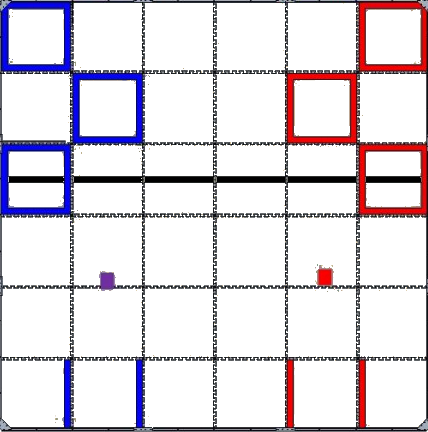
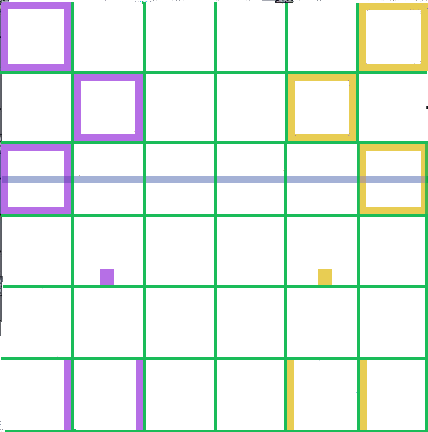
New field background image Added pause button Smoother inputs Changed telemetry location Adjusted the robot speed to better match real life Added time based movements

Changed region(s): [[0.0, 0.0, 1.0, 1.0]]

diff --git a/robot/src/main/java/com/example/robot/Position.java b/robot/src/main/java/com/example/robot/Position.java
@@ -4,6 +4,8 @@
  * and open the template in the editor.
  */
 package com.example.robot;
+import java.awt.Robot;
+
 import static com.example.robot.utilities.*;
 
 public class Position extends Thread{
@@ -30,38 +32,41 @@ public class Position extends Thread{
     @Override
     public void run(){             
         while(keepRun){
-            
-            //Cycles through all motors, seeing what mode they are in and thus whether or not to increment encoder position
-            for(int i=0; i<rob.driveTrain.length; i++){
-                if(rob.driveTrain[i].getMode().equals(DcMotor.RunMode.RUN_USING_ENCODER)||rob.driveTrain[i].getMode().equals(DcMotor.RunMode.RUN_TO_POSITION)){
-                    rob.driveTrain[i].position+=rob.driveTrain[i].getPower()*30;
+            if(!RobotSimulator.pause) {
+
+                //Cycles through all motors, seeing what mode they are in and thus whether or not to increment encoder position
+                for (int i = 0; i < rob.driveTrain.length; i++) {
+                    if (rob.driveTrain[i].getMode().equals(DcMotor.RunMode.RUN_USING_ENCODER) || rob.driveTrain[i].getMode().equals(DcMotor.RunMode.RUN_TO_POSITION)) {
+                        rob.driveTrain[i].position += rob.driveTrain[i].getPower() * 4.456;
+                    } else if (rob.driveTrain[i].getMode().equals(DcMotor.RunMode.STOP_AND_RESET_ENCODER)) {
+                        rob.driveTrain[i].setPower(0);
+                        rob.driveTrain[i].position = 0;
+                    }
+                    if (rob.driveTrain[i].getMode().equals(DcMotor.RunMode.RUN_TO_POSITION) && rob.driveTrain[i].position > rob.driveTrain[i].wantPos) {
+                        rob.driveTrain[i].setPower(0);
+                    }
                 }
-                else if(rob.driveTrain[i].getMode().equals(DcMotor.RunMode.STOP_AND_RESET_ENCODER)){
-                    rob.driveTrain[i].setPower(0);
-                    rob.driveTrain[i].position=0;
-                }
-                if(rob.driveTrain[i].getMode().equals(DcMotor.RunMode.RUN_TO_POSITION)&&rob.driveTrain[i].position>rob.driveTrain[i].wantPos){
-                    rob.driveTrain[i].setPower(0);
-                }
+
+                //Here we want to find the direction the robot is traveling relative to itself, eg if it is driving forwards or strafing to the right
+                //robot system is analogous to right triangle, base is made up of leftfront and rightback which runs along x axis while height is leftback and rightfront that runs along y axis
+                //Using this model, the angle of the vector that is formed by adding the leftfront and rightback vector with the leftback and rightfront vector (perpendicular) can be calculated
+                //The angle of the vector is 45 degrees to the right of the direction the robot will end up travelling so we add 45 degrees to get the actual direction the robot will travel in
+                //Speed will be magnitude of above vector
+                double angleRobot = angleWrap(Math.PI / 4 + Math.atan2(rob.leftBack.getPower() + rob.rightFront.getPower(), rob.leftFront.getPower() + rob.rightBack.getPower())); //if y is backwards, negate
+                double powRobot = Math.hypot(rob.leftBack.getPower() + rob.rightFront.getPower(), rob.leftFront.getPower() + rob.rightBack.getPower())*.849;
+
+                //we calculated the angle the robot was moving relative to where its facing, now need to calculate the angle the robot is moving relative to field and update its position accordingly
+                //The angle it is traveling in relative to the field is the direction it is traveling relative to the robot added to the angle the robot is facing relative to the field
+                double angleWorld = angleWrap(angleRobot + heading);
+                setX(getX() + Math.cos(angleWorld) * powRobot );
+                setY(getY() - Math.sin(angleWorld) * powRobot );
+                //x+=Math.cos(angleWorld)*powRobot;
+                //y-=Math.sin(angleWorld)*powRobot;
+                setHeading(angleWrap(getHeading() + (rob.rightBack.getPower() + rob.rightFront.getPower() - rob.leftBack.getPower() - rob.leftFront.getPower()) *.06/4));
+
+
+                //heading=angleWrap(heading+(rob.rightBack.getPower() + rob.rightFront.getPower()-rob.leftBack.getPower() -rob.leftFront.getPower())/50);
             }
-
-            //Here we want to find the direction the robot is traveling relative to itself, eg if it is driving forwards or strafing to the right
-            //robot system is analogous to right triangle, base is made up of leftfront and rightback which runs along x axis while height is leftback and rightfront that runs along y axis
-            //Using this model, the angle of the vector that is formed by adding the leftfront and rightback vector with the leftback and rightfront vector (perpendicular) can be calculated
-            //The angle of the vector is 45 degrees to the right of the direction the robot will end up travelling so we add 45 degrees to get the actual direction the robot will travel in
-            //Speed will be magnitude of above vector
-            double angleRobot=angleWrap(Math.PI/4+Math.atan2(rob.leftBack.getPower()+rob.rightFront.getPower(), rob.leftFront.getPower()+rob.rightBack.getPower())); //if y is backwards, negate
-            double powRobot=Math.hypot(rob.leftBack.getPower()+rob.rightFront.getPower(),  rob.leftFront.getPower()+rob.rightBack.getPower());
-
-            //we calculated the angle the robot was moving relative to where its facing, now need to calculate the angle the robot is moving relative to field and update its position accordingly
-            //The angle it is traveling in relative to the field is the direction it is traveling relative to the robot added to the angle the robot is facing relative to the field
-            double angleWorld=angleWrap(angleRobot+heading);
-            x+=Math.cos(angleWorld)*powRobot;
-            y-=Math.sin(angleWorld)*powRobot;
-
-            
-            heading=angleWrap(heading+(rob.rightBack.getPower() + rob.rightFront.getPower()-rob.leftBack.getPower() -rob.leftFront.getPower())/50);
-
             try{
                 Thread.sleep(10);
             }
@@ -71,15 +76,21 @@ public class Position extends Thread{
     }
 
     public void setX(double x) {
-        this.x = x;
+        if(!RobotSimulator.pause){
+            this.x = x;
+        }
     }
 
     public void setY(double y) {
-        this.y = y;
+        if(!RobotSimulator.pause){
+            this.y = y;
+        }
     }
 
     public void setHeading(double heading) {
-        this.heading = heading;
+        if(!RobotSimulator.pause){
+            this.heading = heading;
+        }
     }
 
     public double getX() {

diff --git a/robot/src/main/java/com/example/robot/RobotSimulator.java b/robot/src/main/java/com/example/robot/RobotSimulator.java
@@ -36,6 +36,8 @@ public class RobotSimulator extends Canvas {
     static Canvas pic; //canvas to draw on
     static Image bot; //global image of robot
     static Image field;
+    static Image pauseSim;
+    static boolean pause= false;
 
     //48 pixesl per inch, field is 12x12ft
     static final int length=576; //size of frame 576
@@ -43,14 +45,28 @@ public class RobotSimulator extends Canvas {
     
     static List<String> tele=new ArrayList<>(); //list that includes all the string that telemetry wants to display
     static JButton reset;
+    static JButton stop;
+
     public static void main(String[] args) {
         pic= new RobotSimulator(); //making the canvas
         frame= new JFrame("pog"); //making the frame
+
         reset = new JButton("R"); //new button made to reset robot position
+        stop= new JButton("P");
+
         paint t= new paint(); //making a new paint object, which will be made into a thread
         Thread draw= new Thread(t); //making t into a thread
 
-        reset.setBounds(length-60, 20, 50, 30); //size and position of button
+
+        stop.setBounds(70, 10, 50, 30);
+        stop.addActionListener( new ActionListener (){
+            public void actionPerformed(ActionEvent e){
+                pause=!pause;
+            }
+        });
+        frame.add(stop);
+
+        reset.setBounds(10, 10, 50, 30); //size and position of button
         reset.addActionListener(new ActionListener (){
             public void actionPerformed (ActionEvent e) { //when button pressed reset robert position
                 robert.position.x=0;
@@ -60,10 +76,10 @@ public class RobotSimulator extends Canvas {
         });
         frame.add(reset); //add button to frame
 
-
         try{
             bot=ImageIO.read(new File("robot\\src\\main\\java\\com\\example\\robot\\robotH.png")); //robot picture file path
             field=ImageIO.read(new File("robot\\src\\main\\java\\com\\example\\robot\\field.png")); //field picture file
+            pauseSim=ImageIO.read(new File("robot\\src\\main\\java\\com\\example\\robot\\pause.png"));
         }
         catch(IOException e){}
         
@@ -76,13 +92,12 @@ public class RobotSimulator extends Canvas {
         frame.setBackground(new Color(142, 210, 153)); //make the background color olivia used on the logbook epic idea so its not "ugly"
         frame.add(pic); //make the frame have the canvas
 
-
         frame.pack();
-
 
         frame.setVisible(true); //make it visible
         
         draw.start(); //start the painting thread
+        ElapsedTime.startMoment=System.currentTimeMillis();
 
         //run whatever is in the auton runOpMode
         auton lol= new auton();
@@ -101,27 +116,33 @@ public class RobotSimulator extends Canvas {
         Image buffer= frame.createImage(frame.getWidth(), frame.getHeight());
         Graphics2D bufferG=(Graphics2D) buffer.getGraphics();
 
-        reset.setBounds(frame.getWidth()-80, 20, 50, 30);
+        //frame.setBackground(new Color(142, 210, 153));
+
+        //reset.setBounds(pic.getWidth()-80, 20, 50, 30);
 
 
         //bufferG.drawImage(field, frame.getWidth()/2-length/2, frame.getHeight()/2-width/2, length, width, this);
         bufferG.drawImage(field, getWidth()/2-length/2, getHeight()/2-height/2, length, height, this);
 
         //draw everything in the telemetry
-
         List<String> telem= new ArrayList<>();
         telem.addAll(tele);
 
         for(int i=0; i<telem.size(); i++){
             String message=telem.get(i);
             if(message!=null){
-                bufferG.drawString(message, 0, i*10+10);
+                bufferG.drawString(message, 0, getHeight()-telem.size()*10+(i*10+10));
             }
         }
 
         //rotate based on robot rotation and draw it
         bufferG.rotate(-robert.position.heading, robert.position.x +getWidth()/2, robert.position.y +getHeight()/2);
         bufferG.drawImage(bot, (int)robert.position.x-robotLen/2+getWidth()/2,(int)robert.position.y-robotWid/2+getHeight()/2, robotLen, robotWid,this);
+
+        bufferG.rotate(robert.position.heading, robert.position.x +getWidth()/2, robert.position.y +getHeight()/2);
+        if(pause){
+            bufferG.drawImage(pauseSim, getWidth()/2-75, getHeight()/2-75, 150, 150, this);
+        }
 
         //replace current image with image we were preparing in the background
         g.drawImage(buffer, 0, 0, this);

diff --git a/robot/src/main/java/com/example/robot/auton.java b/robot/src/main/java/com/example/robot/auton.java
@@ -7,59 +7,6 @@ public class auton extends LinearOpMode {
     robot robert= RobotSimulator.robert;
     @Override
     public void runOpMode(){
-        waitForStart();
-        //TODO write ur actual "auton" here
-        while(opModeIsActive()) {
-            boolean x1= gamepad1.x;
-            boolean y1= gamepad1.y;
-
-            double lx=gamepad1.left_stick_x;
-            double ly=-gamepad1.left_stick_y;
-            double rx=gamepad1.right_stick_x;
-
-            if (Math.abs(lx) <= 0.15) {
-                lx = 0;
-            }
-
-            if (Math.abs(ly) <= 0.15) {
-                ly = 0;
-            }
-
-            if (Math.abs(rx) <= 0.15) {
-                rx = 0;
-            }
-
-
-
-            double lf = lx + ly + rx;
-            double lb = ly - lx + rx;
-            double rf = ly - lx - rx;
-            double rb = lx + ly - rx;
-
-
-            double max = Math.max(Math.max(Math.abs(lb), Math.abs(lf)), Math.max(Math.abs(rb), Math.abs(rf)));
-            double magnitude = Math.sqrt((lx * lx) + (ly * ly) + (rx * rx));
-            double ratio = magnitude / max;
-
-            if (max == 0) {
-                ratio=0;
-            }
-
-
-            robert.leftFront.setPower(lf * ratio);
-            robert.leftBack.setPower(lb * ratio);
-            robert.rightFront.setPower(rf * ratio);
-            robert.rightBack.setPower(rb * ratio);
-
-            telemetry.addData(robert.leftFront.getPower()+ "");
-            telemetry.addData(robert.leftBack.getPower()+ "");
-            telemetry.addData(robert.rightBack.getPower()+ "");
-            telemetry.addData(robert.rightFront.getPower()+ "");
-            telemetry.addData(ratio + "");
-            telemetry.addData(lx + "");
-            telemetry.addData(ly + "");
-            telemetry.addData(rx + "");
-            telemetry.update();
-        }
+        
     }
 }

diff --git a/robot/src/main/java/com/example/robot/paint.java b/robot/src/main/java/com/example/robot/paint.java
@@ -5,17 +5,8 @@
  */
 package com.example.robot;
 
-//import com.badlogic.gdx.controllers.ControllerManager;
-
 import com.studiohartman.jamepad.ControllerManager;
 import com.studiohartman.jamepad.ControllerState;
-
-//import org.libsdl.SDL_Error;
-
-//import uk.co.electronstudio.sdl2gdx.SDL2ControllerManager;
-
-//import com.studiohartman.jamepad.ControllerState;
-
 
 /**
  *
@@ -35,7 +26,6 @@ public class paint implements Runnable{
         while(keepRun){
             //calls for image to be redrawn
             RobotSimulator.pic.repaint();
-
             //get current state of controller
             state= controller.getState(0);
 
@@ -62,9 +52,14 @@ public class paint implements Runnable{
             gamepad1.left_trigger=state.leftTrigger;
             gamepad1.right_trigger=state.rightTrigger;
 
+            //RobotSimulator.stop.setBounds(RobotSimulator.pic.getWidth()-140, 20, 50, 30);
+            if(RobotSimulator.pause){
+                ElapsedTime.startMoment+=10;
+            }
+
             //wait 50 milliseconds before repeating
             try{
-                Thread.sleep(50);
+                Thread.sleep(10);
             }
             catch(Exception e){}
 

diff --git a/robot/src/main/java/com/example/robot/telemetry.java b/robot/src/main/java/com/example/robot/telemetry.java
@@ -17,22 +17,26 @@ public class telemetry {
 
     //add stuff to list
     public static void addData(String add){
-        if(add!=null){
+        if(!RobotSimulator.pause){
             info.add(add);
 
         }
+
     }
 
     //robot sim has its own list that is drawn, so we clear it and replace it with current telemetry list
     public static void update(){
-        RobotSimulator.tele.clear();
-        for(String component: info){
-            if(info!=null){
-                RobotSimulator.tele.add(component);
+        if(!RobotSimulator.pause){
+            RobotSimulator.tele.clear();
+            for(String component: info){
+                if(info!=null){
+                    RobotSimulator.tele.add(component);
 
+                }
             }
+            info.clear();
         }
-        info.clear();
+
         
     }
 }

diff --git a/robot/src/main/java/com/example/robot/ElapsedTime.java b/robot/src/main/java/com/example/robot/ElapsedTime.java
@@ -1,0 +1,18 @@
+package com.example.robot;
+
+public class ElapsedTime {
+    private double startTime;
+    static double startMoment;
+    public ElapsedTime(){
+        startTime=System.currentTimeMillis()-startMoment;
+    }
+    public double milliseconds(){
+        return (System.currentTimeMillis()-(startTime+System.currentTimeMillis()));
+    }
+    public double seconds(){
+        return milliseconds()/1000;
+    }
+    public void reset(){
+        startTime=System.currentTimeMillis()-startMoment;
+    }
+}
